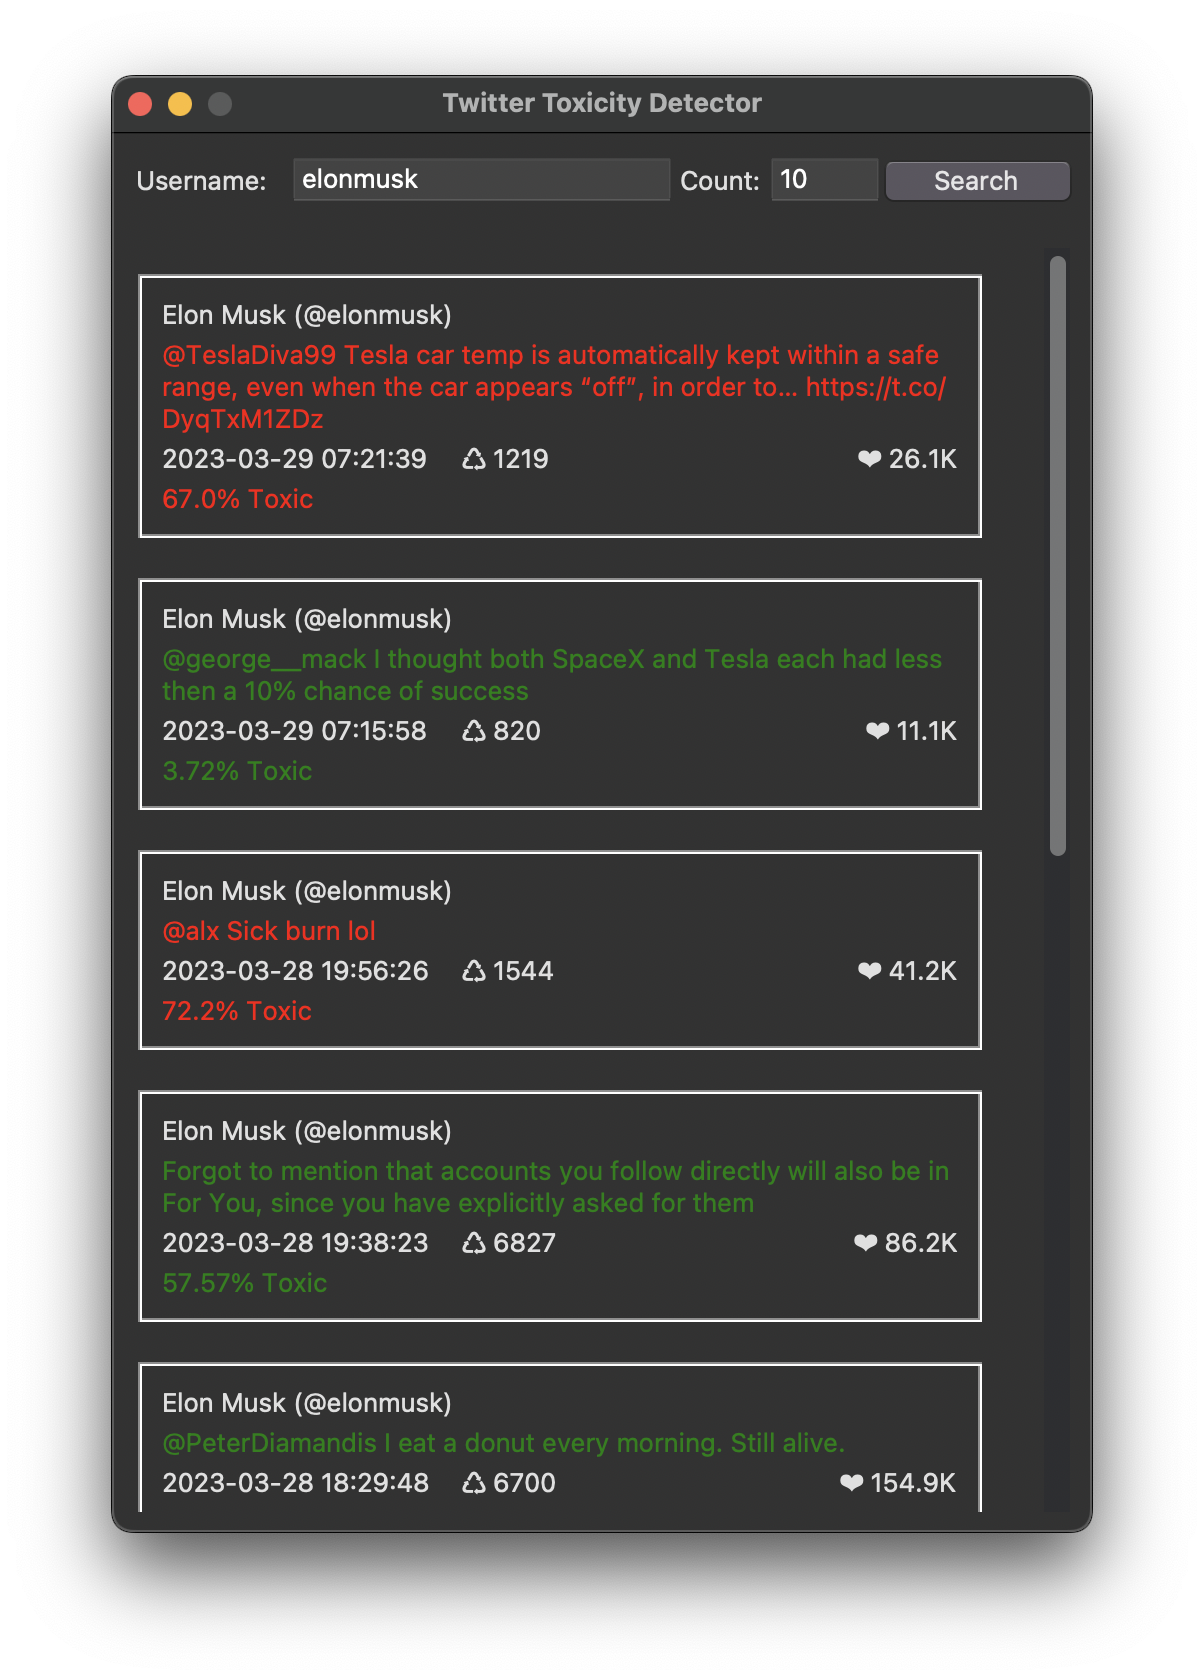
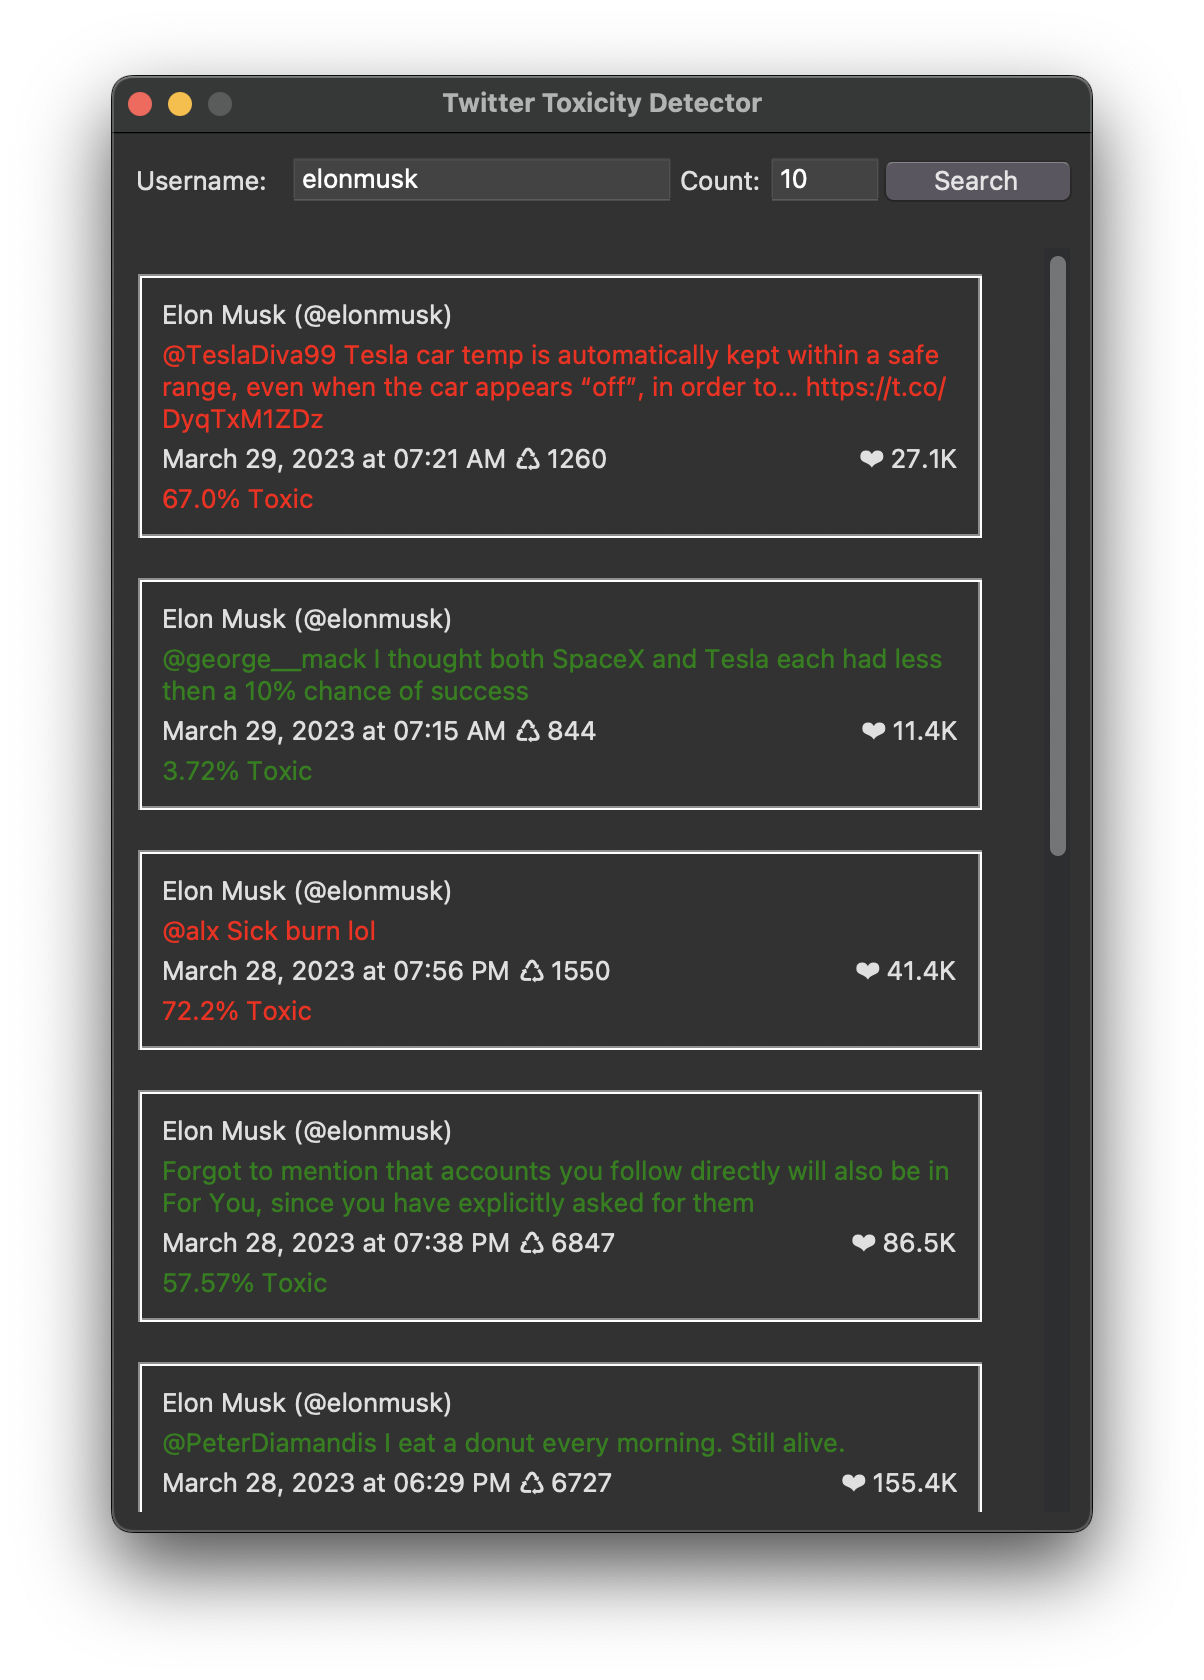
`Linting` & More Readable

diff --git a/detector.py b/detector.py
@@ -96,8 +96,7 @@ def search_tweets():
         text_label = ttk.Label(tweet_widget, text=tweet.text,
                                wraplength=400, justify="left")
         text_label.grid(row=1, column=0, columnspan=2, sticky="w")
-        created_label = ttk.Label(
-            tweet_widget, text=tweet.created_at.strftime("%Y-%m-%d %H:%M:%S"))
+        created_label = ttk.Label(tweet_widget, text=tweet.created_at.strftime("%B %d, %Y at %I:%M %p"))
         created_label.grid(row=2, column=0, sticky="w")
 
         if tweet.favorite_count >= 1000:

diff --git a/README.md b/README.md
@@ -6,29 +6,23 @@ This is a simple python program which uses a machine learning model to detect to
 
 ![App Screenshot](./screenshots/screenshot-1.png)
 
-## Prerequisites
+## Installation
 
-Create a .env file in the root directory of this project and add the variable from the .env.example file and add your [Twitter API keys.](https://developer.twitter.com/en/docs/twitter-api/getting-started/about-twitter-api)
+You may need to install some dependencies before running the program(some of the modules cannot be installed directly by using `requirements.txt`).
 
 ```bash
+git clone https://github.com/mantreshkhurana/twitter-toxicity-detection-python.git
+cd twitter-toxicity-detection-python
 pip3 install -r requirements.txt
-```
-
-or
-
-```bash
-pip install -r requirements.txt
-```
-
-## Run
-
-```bash
 python3 detector.py
 ```
 
 or
 
 ```bash
+git clone https://github.com/mantreshkhurana/twitter-toxicity-detection-python.git
+cd twitter-toxicity-detection-python
+pip install -r requirements.txt
 python detector.py
 ```
 
